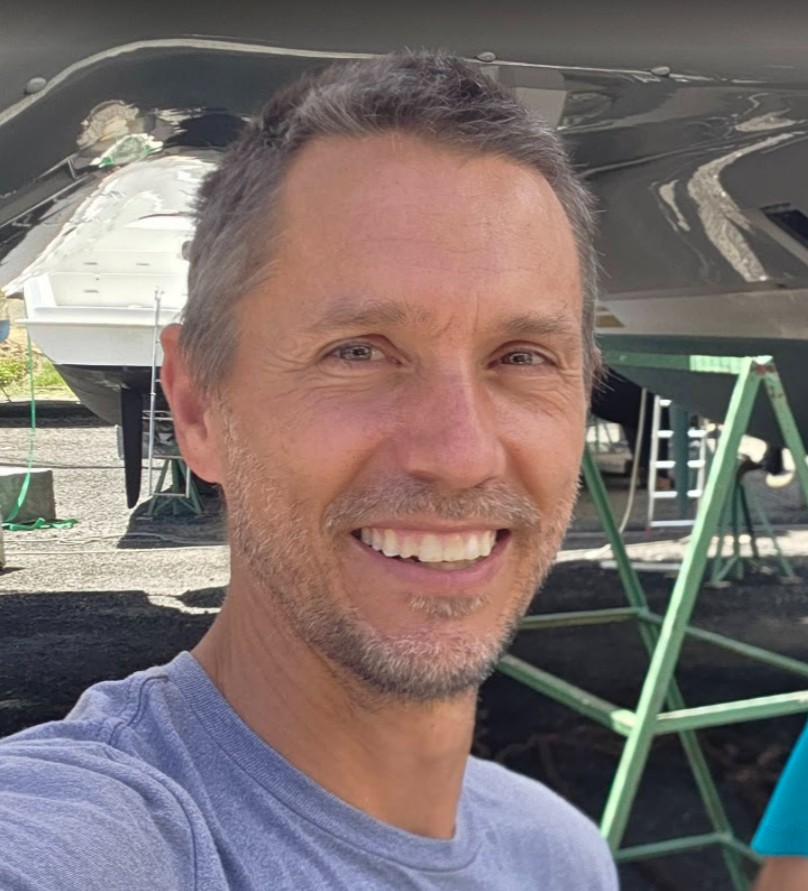
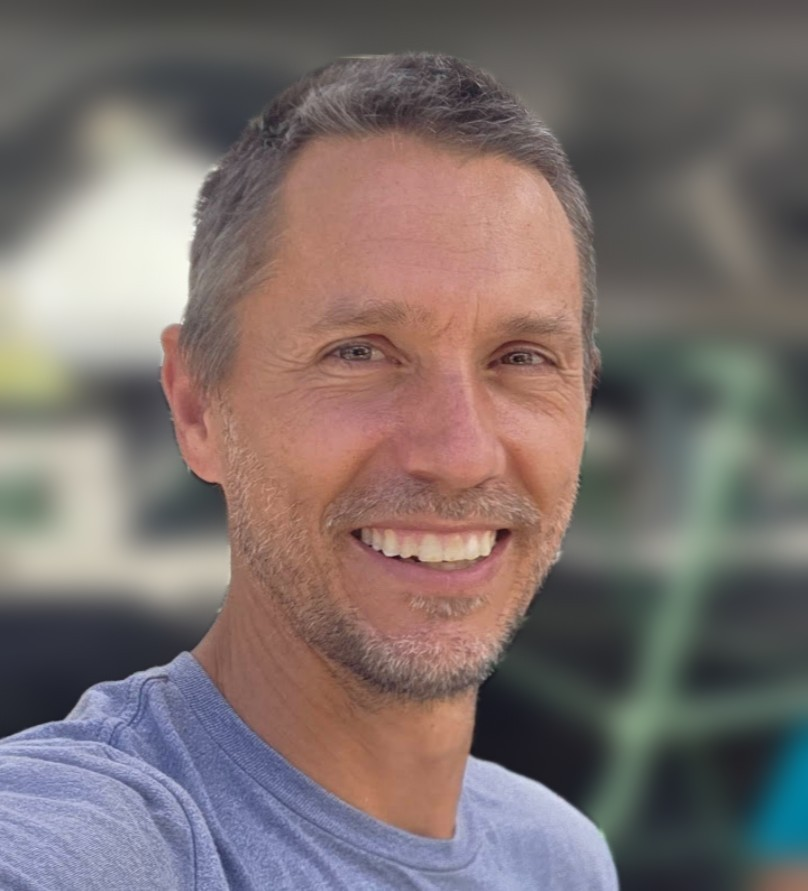
About page: smaller photos, blurred background, LinkedIn caption, Peter and Elizabeth's story

diff --git a/src/site.config.ts b/src/site.config.ts
@@ -8,6 +8,7 @@ export const SITE = {
   // No LLC is formed: never write "LLC" in visible text (the domain name is fine).
   legalLine: 'Peter Sedivec, doing business as Mako Real Estate',
   dre: '01908921',
+  linkedin: 'https://www.linkedin.com/in/petersedivec/',
   email: 'peter@makorellc.com',
   phone: '(310) 462-1343',
   phoneHref: 'tel:+13104621343',
